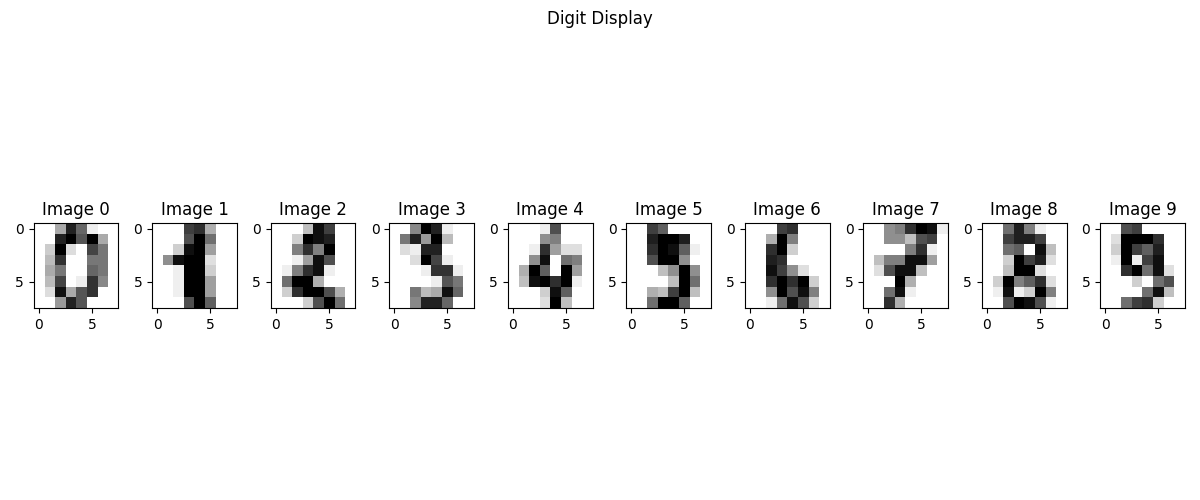
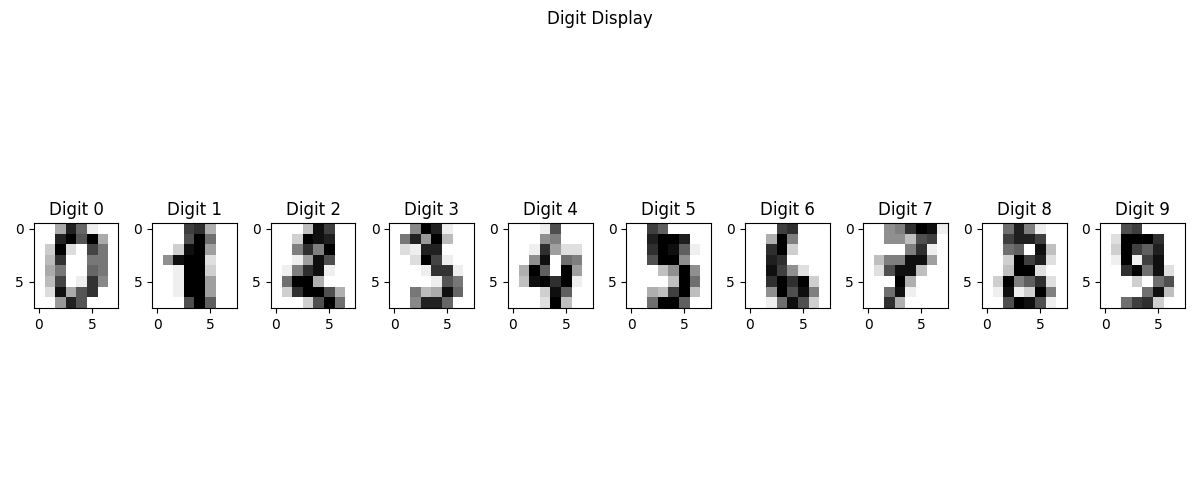
fixed errors in both files

diff --git a/assignment_03/project_03.py b/assignment_03/project_03.py
@@ -182,18 +182,16 @@ for d in depth:
     print(f"Train Accuracy Score(Decision Tree): {accuracy_score(y_train, train_pred)}")
     print(f"Test Accuracy Score(Decision Tree): {accuracy_score(y_test, test_pred)}")
 
-    print(f"Feature Importance: {dtree.feature_importances_}")
+    # As max_depth increases, training accuracy keeps climbing toward ~1.0 -- the tree is
+    # memorizing individual training examples -- while test accuracy plateaus and the
+    # train/test gap widens. That growing gap is the signature of overfitting. I'm picking 
+    # 5 as the best choice because we see it's accuracy is around 90% for both tests, but 
+    # it's not so high as to be overfitting.
 
-
-    # Accuracy increases with max depth because there 
-    # is more data to work with. I would pick none as 
-    # the max depth given that for both the test and 
-    # train data it had the highest accuracy.
-
-dtree = DecisionTreeClassifier(max_depth = None, random_state = 42)
+dtree = DecisionTreeClassifier(max_depth = 5, random_state = 42)
 dtree.fit(x_train, y_train)
 dtree_predict = dtree.predict(x_test)
-print(f"Scaled Accuracy Score(KNN): {accuracy_score(y_test, dtree_predict)}")
+print(f"Scaled Accuracy Score(Best Decision Tree): {accuracy_score(y_test, dtree_predict)}")
 print(f"Classification Report: {classification_report(y_test, dtree_predict)}")
 
 importance_df_tree = pd.DataFrame({
@@ -204,7 +202,7 @@ rf = RandomForestClassifier(n_estimators=100, random_state=42)
 rf.fit(x_train, y_train)
 rf_pred = rf.predict(x_test)
 print(f"Important Features: {rf.feature_importances_}")
-print(f"Accuracy Score (Random FOrest): {accuracy_score(y_test, rf_pred):.4f}")
+print(f"Accuracy Score (Random Forest): {accuracy_score(y_test, rf_pred):.4f}")
 print(f"Classification Report: {classification_report(y_test, rf_pred)}")
 
 importance_df_rf = pd.DataFrame({
@@ -214,8 +212,8 @@ importance_df_rf = pd.DataFrame({
 logreg_scale = LogisticRegression(C=1.0, max_iter=1000, solver='liblinear')
 logreg_scale.fit(x_train_scaled, y_train)
 logreg_scale_pred = logreg_scale.predict(x_test_scaled)
-print(f"Accuracy (Scaled): {accuracy_score(y_test, logreg_scale_pred):.4f}")
-print(f"Classification Report (Scaled): {classification_report(y_test, logreg_scale_pred)}")
+print(f"Accuracy (Scaled Logsitic Regression): {accuracy_score(y_test, logreg_scale_pred):.4f}")
+print(f"Classification Report (Scaled Logsitic Regression): {classification_report(y_test, logreg_scale_pred)}")
 
 logreg_pca = LogisticRegression(C=1.0, max_iter=1000, solver='liblinear')
 logreg_pca.fit(X_train_pca, y_train)
@@ -236,6 +234,12 @@ print(f"Classification Report (PCA): {classification_report(y_test, logreg_pca_p
 top10_rf = importance_df_rf.nlargest(10, 'Importance')
 top10_tree = importance_df_tree.nlargest(10, 'Importance')
 
+print("Top 10 Features (Decision Tree):")
+print(top10_tree.to_string(index=False))
+
+print("Top 10 Features (Random Forest):")
+print(top10_rf.to_string(index=False))
+
 fig, [ax1, ax2] = plt.subplots(1,2, figsize=(14, 6))
 ax1.bar(top10_rf['Feature'], top10_rf['Importance'])
 ax1.set_title('Important Features (Random Forest)')
@@ -252,7 +256,7 @@ plt.show()
 
 ConfusionMatrixDisplay.from_estimator(rf, x_test, y_test, display_labels=['Ham', 'Spam'])
 plt.title('Best Model Confusion Matrix (Random Forest)')
-plt.savefig('outputs/best_model_confusion_matrix.png')
+plt.savefig('assignment_03/outputs/best_model_confusion_matrix.png')
 plt.show()
 plt.close()
 
@@ -300,7 +304,6 @@ get_cv(logreg_pca, X_train_pca, y_train, 'PCA Logistic Regression')
 # --- Task 5: Building a Prediction Pipeline --- #
 non_tree_pipeline = Pipeline([
     ("scaler", StandardScaler()),
-    ("pca", PCA(n_components=n)),  # 'n' calculated in Task 2
     ("classifier", LogisticRegression(C=1.0, max_iter=1000, solver='liblinear'))
 ])
 

diff --git a/assignment_03/warmup_03.py b/assignment_03/warmup_03.py
@@ -8,6 +8,7 @@ from sklearn.decomposition import PCA
 from sklearn.neighbors import KNeighborsClassifier
 from sklearn.tree import DecisionTreeClassifier
 from sklearn.linear_model import LogisticRegression
+from sklearn.multiclass import OneVsRestClassifier
 from sklearn.metrics import (
     accuracy_score,
     classification_report,
@@ -83,7 +84,7 @@ for k in k_values:
     knn = KNeighborsClassifier(n_neighbors=k)
     scores = cross_val_score(knn, x_train, y_train, cv=5)
     print(f"K: {k}")
-    print(f"CV: {scores}")
+    print(f"CV: {scores.mean}")
 # The best k value is 15 becuase it 
 # consistantly had the highest accuracy 
 # rate, and the fewest overfits.
@@ -123,9 +124,14 @@ for c in c_vals:
         solver = 'liblinear',
         C = c
         )
-    model.fit(x_train_scaled, y_train)
+    ovr_model = OneVsRestClassifier(estimator=model)
+    ovr_model.fit(x_train_scaled, y_train)
+    print(ovr_model.estimators_)
     print(f"C Value: {c}")
-    print(f"Total Coefficient: {np.abs(model.coef_).sum()}")
+    total = 0
+    for est in ovr_model.estimators_:
+        total += np.abs(est.coef_).sum()
+    print(f"Total Coefficient: {total}")
 
 # --- PCA --- #
 digits = load_digits()
@@ -191,7 +197,6 @@ def reconstruct_digit(sample_idx, scores, pca, n_components):
     return reconstruction.reshape(8, 8)
 
 n_list = [2, 5, 15, 40]
-reconstruction = reconstruct_digit(X_digits[:4], scores, pca, n)
 
 fig, axes = plt.subplots(5,5, figsize=(10,10))
 
